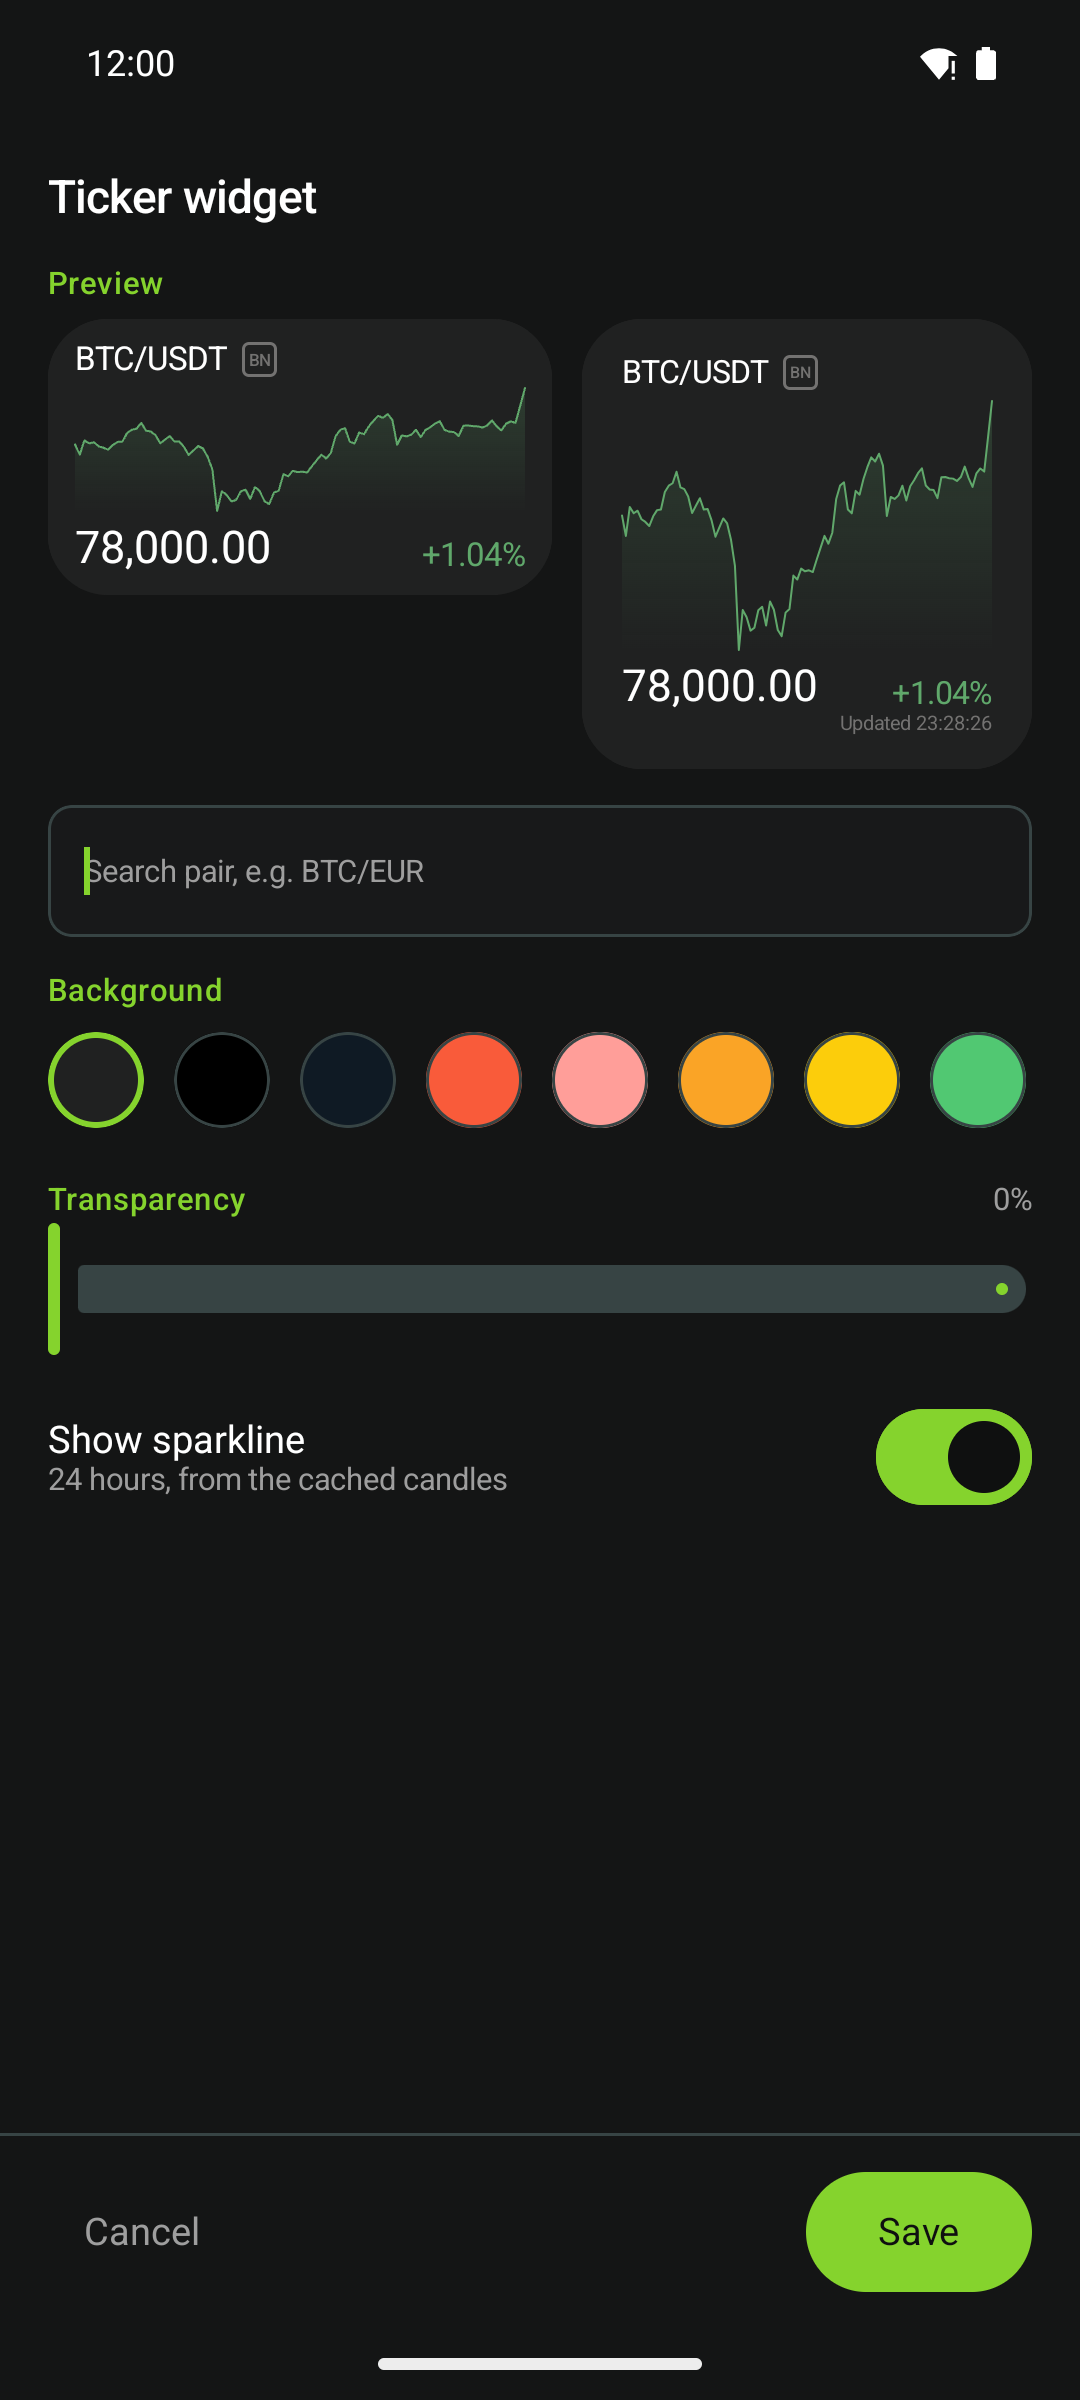
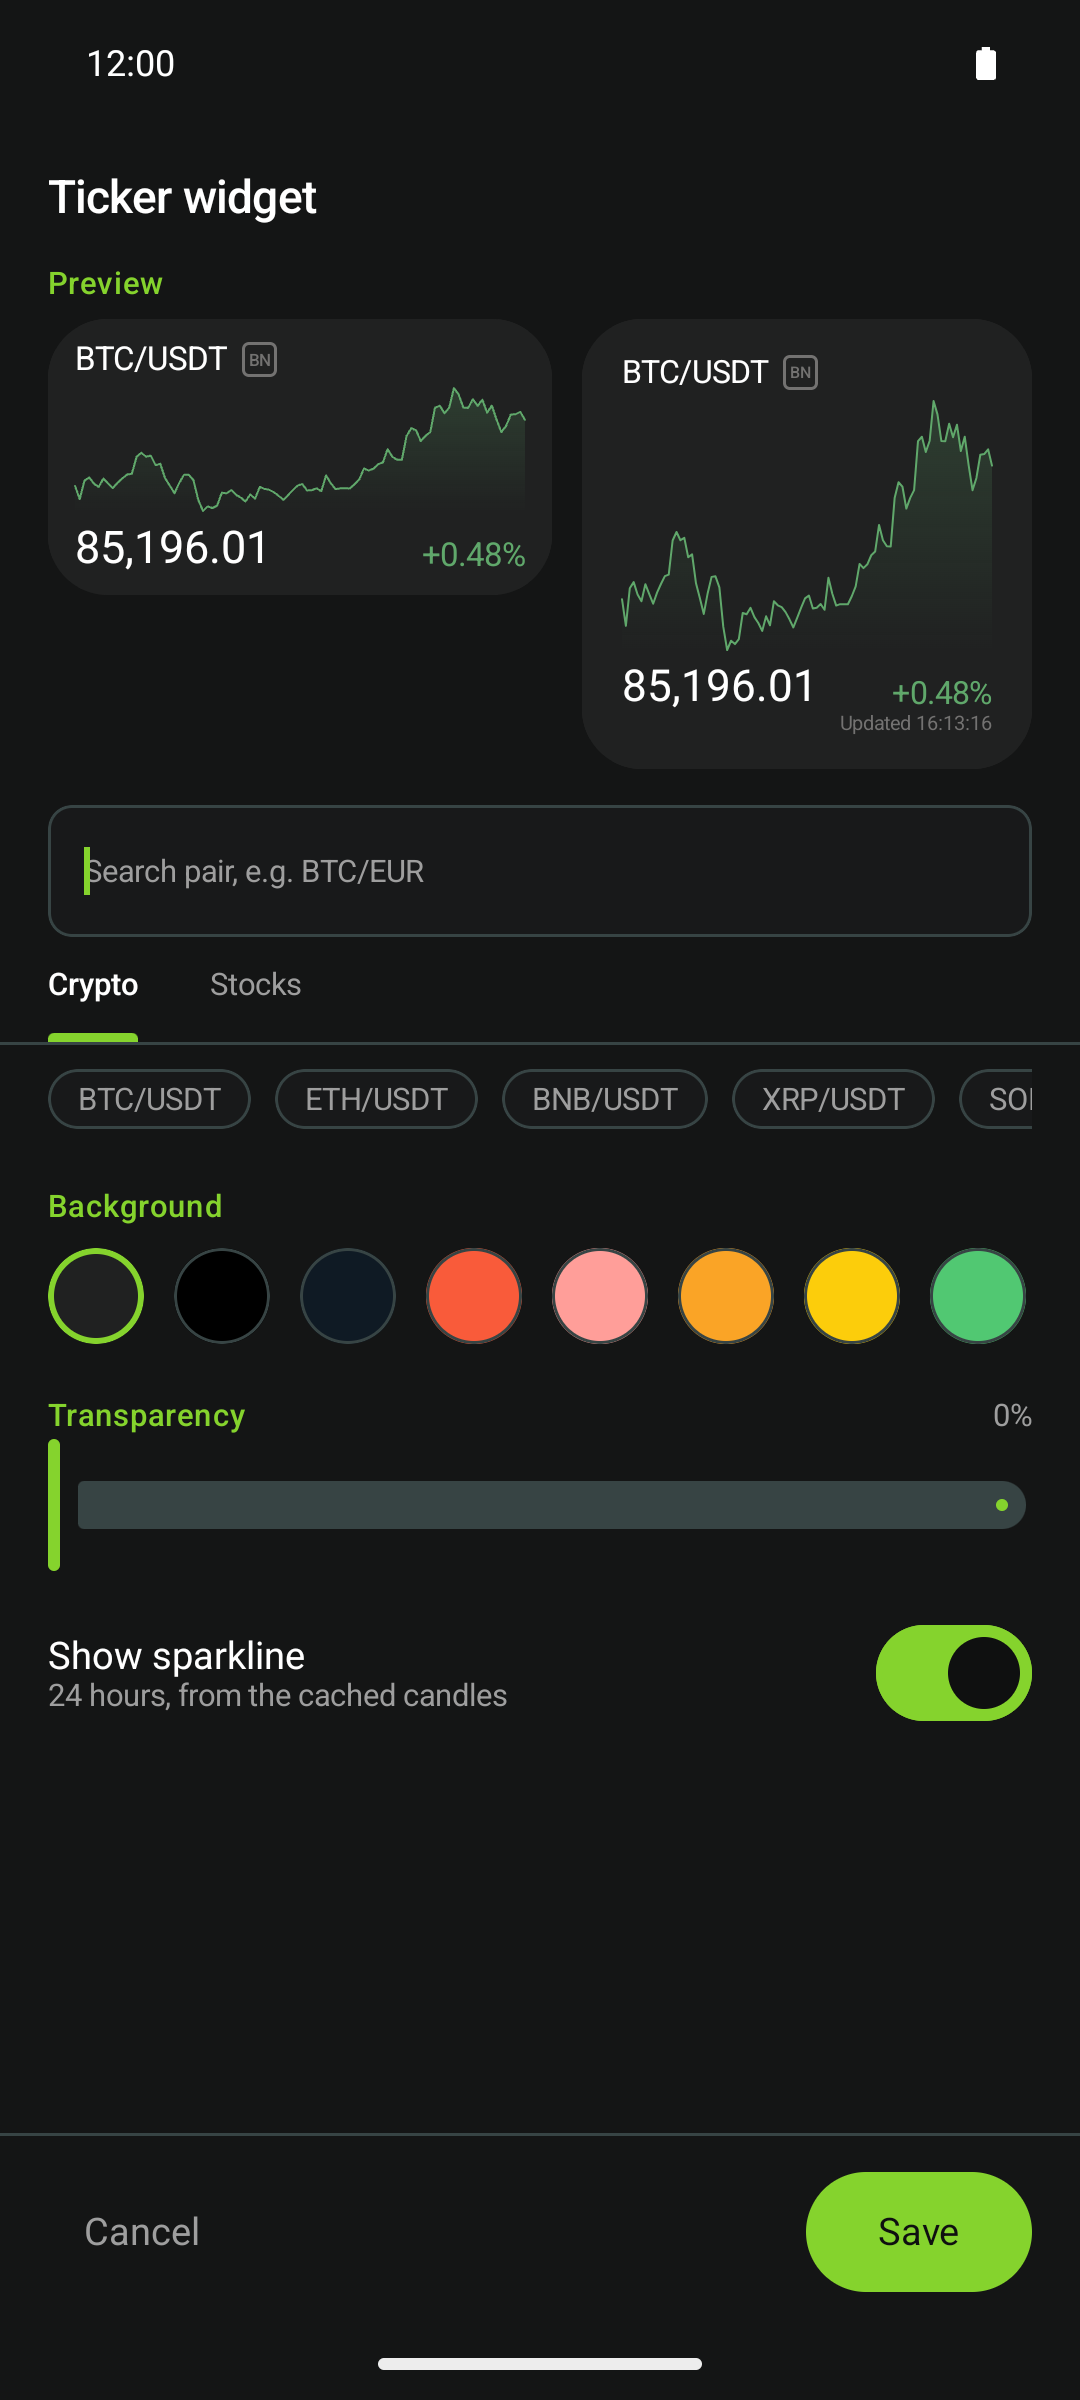
TabGreater 1.2.0
Version 1.2.0 (7): changelog, README, privacy policy and store
description for the tokenized-stock search, and new screenshots of the
pair search and the widget setup.

diff --git a/docs/PRIVACY.md b/docs/PRIVACY.md
@@ -1,6 +1,6 @@
 # Privacy policy
 
-*TabGreater, by NeatCode Labs — last updated 2026-09-24*
+*TabGreater, by NeatCode Labs — last updated 2026-10-04*
 
 ## What TabGreater collects
 
@@ -8,13 +8,13 @@ Nothing. The app has no server, no account, no analytics, no crash reporting and
 
 ## What leaves your device
 
-TabGreater fetches prices and candles **directly** from the public market-data APIs of the exchanges you use (Binance, Gate.io, Kraken, KuCoin, MEXC). Each of those requests carries, as every internet request does, your IP address, and it names the trading pairs you are watching. The exchanges receive and process that information under their own terms of service and privacy policies; NeatCode Labs has no access to it and no control over it. All connections use HTTPS / WSS.
+TabGreater fetches prices and candles **directly** from the public market-data APIs of the exchanges you use (Binance, Gate.io, Kraken, KuCoin, MEXC). Each of those requests carries, as every internet request does, your IP address, and it names the trading pairs you are watching. The app also downloads the five exchanges' lists of markets, which the pair search runs on, at most once a day and again after an install or update; those requests name no pair, and what you type into the search never leaves the device. The exchanges receive and process that information under their own terms of service and privacy policies; NeatCode Labs has no access to it and no control over it. All connections use HTTPS / WSS.
 
-The "popular pairs" shortcuts on the add-pair screen and in the widget setup come from CoinGecko's public market-cap ranking (https://www.coingecko.com): the app asks for that list at most once a day, and that request, like any other, carries your IP address. Nothing else leaves the device. The chart runs in a WebView that loads only files bundled inside the app.
+The crypto "popular pairs" shortcuts on the add-pair screen and in the widget setup come from CoinGecko's public market-cap ranking (https://www.coingecko.com): the app asks for that list at most once a day, and that request, like any other, carries your IP address. The stock tickers offered under *Stocks* are ranked on the device from the exchanges' lists of markets. Nothing else leaves the device. The chart runs in a WebView that loads only files bundled inside the app.
 
 ## What stays on your device
 
-Watchlists, chart drawings (including any text you add to them), settings, widget configuration and the candle cache are stored in the app's private storage. If Android Backup is enabled on your phone, Android includes that storage in your Google account backup, like it does for other apps. "Export watchlists" writes a JSON file to a location you choose; TabGreater never reads it again unless you import it.
+Watchlists, chart drawings (including any text you add to them), settings, widget configuration, the exchanges' lists of markets and the candle cache are stored in the app's private storage. If Android Backup is enabled on your phone, Android includes that storage in your Google account backup, like it does for other apps. "Export watchlists" writes a JSON file to a location you choose; TabGreater never reads it again unless you import it.
 
 ## Permissions
 

diff --git a/README.md b/README.md
@@ -60,7 +60,18 @@ exchanges directly: there is no backend, no account and nothing is collected.
   three widgets at the default 5-minute cadence cost about 1.5 % battery a day.
 - **Quick add** — the five biggest coins that are not stablecoins or wrapped
   tokens are one tap away when you add a pair (ranking from CoinGecko,
-  refreshed daily).
+  refreshed daily); under *Stocks*, the eight tickers listed on the most
+  exchanges.
+- **Tokenized stocks** — "+ Add pair" and the widget setup have a
+  *Crypto | Stocks* switch. *Stocks* finds the stock tokens the five exchanges
+  list as spot pairs by the share's ticker: `TSLA` brings up the TSLA tokens
+  across the exchanges, such as `TSLAB/USDT` and `TSLAX/USDT`, and Kraken's
+  tokenized stocks (`AAPLX/USD`, …) are in the catalogue too.
+  *Crypto*, the default, leaves them out. On tiles, charts and widgets a stock
+  token works like any other pair. These are tokens trading on crypto
+  exchanges, not stock-exchange quotes: prices can differ from the share price
+  and between exchanges, some exchanges trade them only on weekdays, and
+  coverage is mostly US large caps and ETFs.
 - **Exchanges** — Binance, Gate.io, Kraken, KuCoin, MEXC (spot only).
 - **Dark theme**, en-US number formatting, "shrink zeros" for sub-cent prices
   (`0.0₄123`).
@@ -113,8 +124,10 @@ Read the complete **[Privacy policy](docs/PRIVACY.md)**.
 
 ## Disclaimer
 
-Prices are indicative and may be delayed, incomplete or wrong. TabGreater is
-**not financial advice** and executes no trades. Use it at your own risk.
+Prices are indicative and may be delayed, incomplete or wrong. Stock tokens are
+priced by trading on crypto exchanges and can differ from the share price.
+TabGreater is **not financial advice** and executes no trades. Use it at your
+own risk.
 
 ## Support
 
@@ -136,6 +149,19 @@ Donations keep the project going; they do not unlock anything in the app.
 
 Coinbase's market-data terms do not allow third-party apps to show their data
 to end users, so it is left out on purpose.
+
+</details>
+
+<details>
+<summary><b>Does TabGreater show stock prices?</b></summary>
+
+Not from a stock exchange. TabGreater reads only the exchanges' public APIs,
+with no API key. What the *Stocks* switch lists are tokenized stocks: tokens
+that track a share and that Binance, Gate.io, Kraken, KuCoin and MEXC list as
+spot pairs. Their price comes from trading on that exchange, so it can differ
+from the share price and from one exchange to the next. Some exchanges trade
+them around the clock, others only on weekdays; outside trading hours a tile
+keeps the last price. Coverage is mostly US large caps and ETFs.
 
 </details>
 
@@ -164,7 +190,9 @@ battery-optimisation permissions to comply with Play policy.
 
 From CoinGecko's public market-cap ranking, fetched at most once a day and
 cached on the device; stablecoins and wrapped tokens are filtered out. If the
-request fails, the app falls back to the last cached list.
+request fails, the app falls back to the last cached list. The tickers offered
+under *Stocks* are ranked on the device from the exchanges' market lists, by
+how many exchanges list each one; that takes no extra request.
 
 </details>
 

diff --git a/docs/BUILDING.md b/docs/BUILDING.md
@@ -26,8 +26,8 @@ Two product flavours share the same code and package name and differ only in wha
 
 | Module | Contents |
 |---|---|
-| `:core:model` | pure Kotlin: `MarketKey` (`exchange:BASE/QUOTE`), `Ticker`, `Candle`, watchlist types, design tokens, number formatting, backup codec |
-| `:core:exchange` | pure Kotlin: `ExchangeAdapter` + Binance / Gate.io / Kraken / KuCoin / MEXC adapters, WebSocket plumbing, rate limiting, candle aggregation |
+| `:core:model` | pure Kotlin: `MarketKey` (`exchange:BASE/QUOTE`), `Market` with its `AssetClass` (crypto or tokenized stock), `Ticker`, `Candle`, watchlist types, design tokens, number formatting, backup codec |
+| `:core:exchange` | pure Kotlin: `ExchangeAdapter` + Binance / Gate.io / Kraken / KuCoin / MEXC adapters, stock-token classification of their catalogues (`StockTokens`), WebSocket plumbing, rate limiting, candle aggregation |
 | `:core:data` | Room (watchlists, markets, candle cache, ticker snapshots) and DataStore settings |
 | `:core:live` | live market data (WebSocket fan-in), the widget refresh service and its alarms |
 | `:feature:chart` | the KLineChart WebView bridge |
